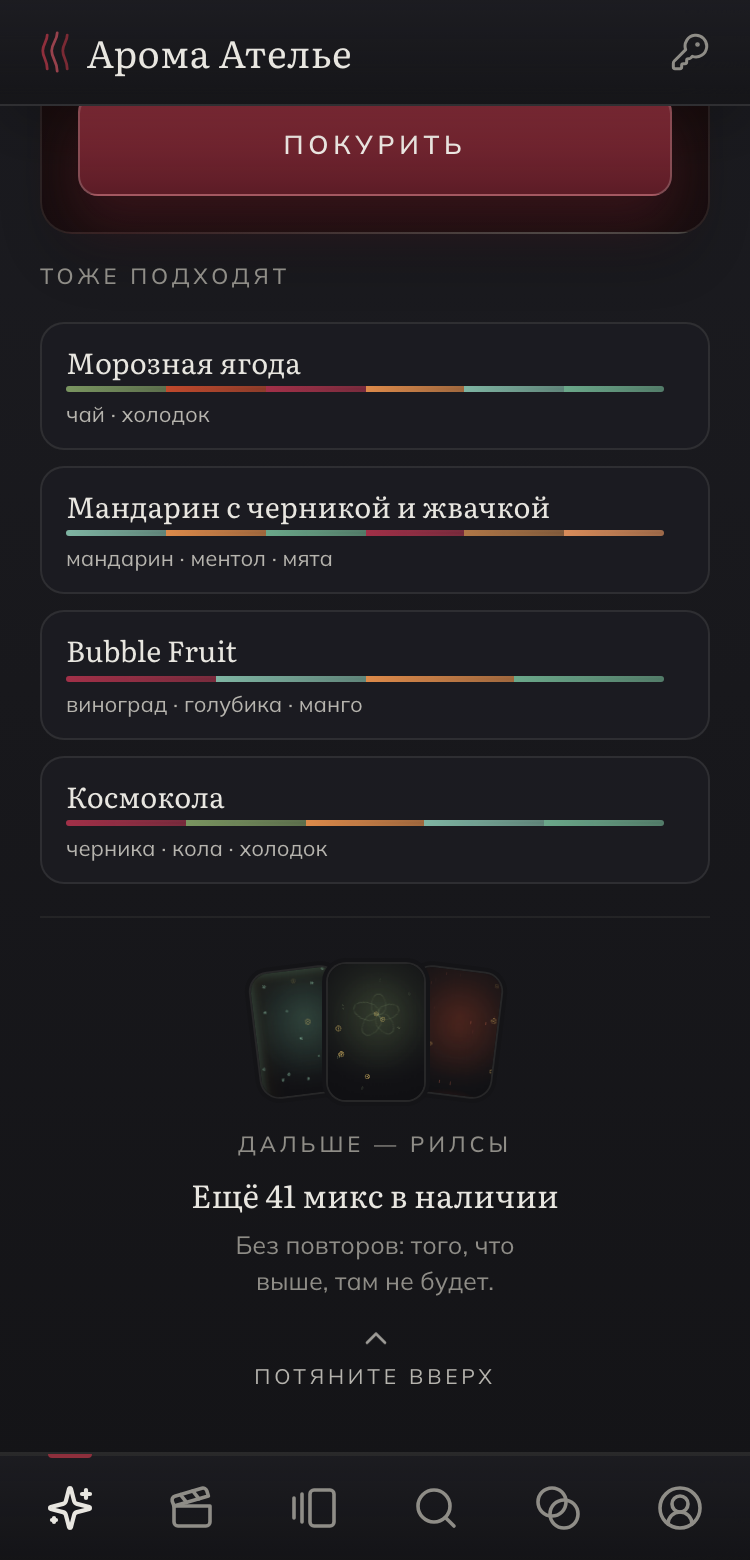
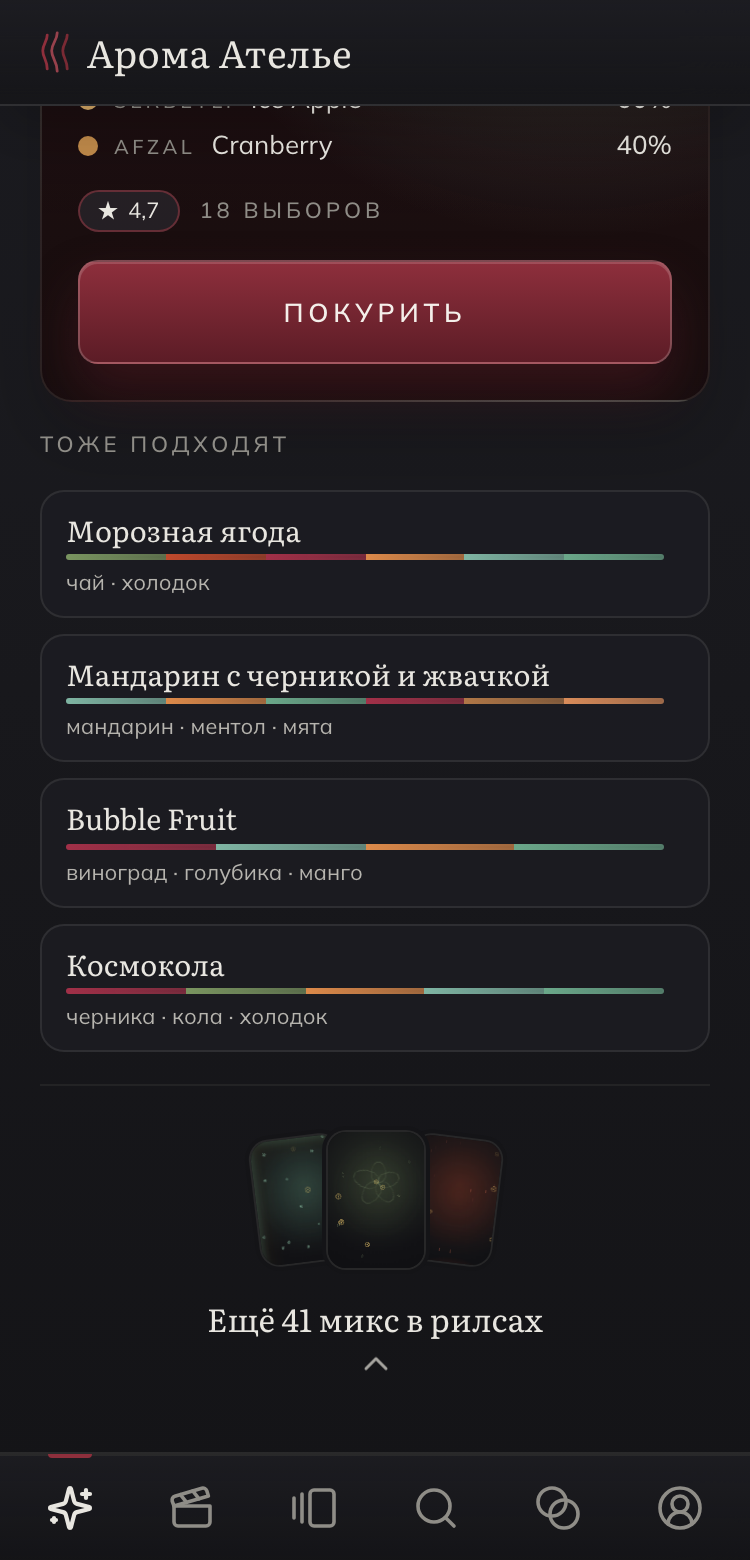
docs(design): короче тексты тизера и дотягивания (#349)
Замечание владельца: слишком много текста и уточнений. Тизер — мини-кадры,
«Ещё N миксов в рилсах» и стрелка; кольцо дотягивания без подписей;
подписи кадров доски — одной фразой. Шапка без «Сменить код» (#316).

diff --git a/design/design_handoff_reels_continuation/board.jsx b/design/design_handoff_reels_continuation/board.jsx
@@ -158,9 +158,6 @@ function Topbar() {
           <img className="brand-mark" src="../../.claude/skills/aroma-atelier-design/assets/logo-mark-oxblood.svg" alt="" aria-hidden />
           <span className="brand">Арома Ателье</span>
         </button>
-        <button type="button" className="topbar-icon-btn" aria-label="Сменить код" title="Сменить код">
-          <Icon name="KeyRound" size={20} />
-        </button>
       </div>
     </header>
   );
@@ -263,28 +260,17 @@ function MixerInvite() {
 
 // Последний блок Подбора: под ним край, дотягивание за который открывает ленту. Тап — то же самое.
 function ReelsTeaser({ feed, onOpen }) {
-  const next = feed.slice(0, 3);
   const count = feed.length;
+  const title = count ? 'Ещё ' + count + ' ' + pluralRu(count, ['микс', 'микса', 'миксов']) + ' в рилсах' : 'Других миксов нет';
   return (
-    <button type="button" className="rt" onClick={onOpen} aria-label={'Дальше — рилсы. ' + (count ? 'Ещё ' + count + ' ' + pluralRu(count, ['микс', 'микса', 'миксов']) : 'Других миксов нет')}>
-      {next.length ? (
+    <button type="button" className="rt" onClick={onOpen}>
+      {count ? (
         <span className="rt-stills" aria-hidden>
-          {next.map((mix) => <span key={mix.id} className="rt-still"><Scene mix={mix} styleB playing={false} /></span>)}
+          {feed.slice(0, 3).map((mix) => <span key={mix.id} className="rt-still"><Scene mix={mix} styleB playing={false} /></span>)}
         </span>
       ) : null}
-      <span className="aroma-caps">Дальше — рилсы</span>
-      {count ? (
-        <>
-          <span className="rt-title">{'Ещё ' + count + ' ' + pluralRu(count, ['микс', 'микса', 'миксов']) + ' в наличии'}</span>
-          <span className="rt-note">Без повторов: того, что выше, там не будет.</span>
-        </>
-      ) : (
-        <>
-          <span className="rt-title">Других миксов сегодня нет</span>
-          <span className="rt-note">Всё, что есть в наличии, — уже выше.</span>
-        </>
-      )}
-      <span className="rt-pull"><Icon name="ChevronUp" size={18} />Потяните вверх</span>
+      <span className="rt-title">{title}</span>
+      <span className="rt-pull"><Icon name="ChevronUp" size={20} /></span>
     </button>
   );
 }
@@ -398,19 +384,18 @@ function usePull({ atEdge, sign, onFire, initial = 0 }) {
   return { pull, dragging, handlers };
 }
 
-function PullCue({ pull, ready, readyText }) {
+function PullCue({ pull, dir }) {
   const r = 18;
   const len = 2 * Math.PI * r;
   return (
-    <span className={'pull-cue' + (ready ? ' pull-cue-ready' : '')} role="status">
+    <span className={'pull-cue' + (pull >= PULL_FIRE ? ' pull-cue-ready' : '')} aria-hidden>
       <span className="pull-ring">
-        <svg className="ring" viewBox="0 0 40 40" aria-hidden>
+        <svg className="ring" viewBox="0 0 40 40">
           <circle className="ring-track" cx="20" cy="20" r={r} />
           <circle className="ring-fill" cx="20" cy="20" r={r} strokeDasharray={len} strokeDashoffset={len * (1 - Math.min(1, pull / PULL_FIRE))} />
         </svg>
-        <Icon name={readyText === 'Отпустите — к подбору' ? 'ChevronDown' : 'ChevronUp'} size={18} />
+        <Icon name={dir === 'down' ? 'ChevronDown' : 'ChevronUp'} size={18} />
       </span>
-      {ready ? readyText : 'Потяните ещё'}
     </span>
   );
 }
@@ -446,7 +431,7 @@ function RecsScreen({ persona, at, pull: initialPull, variantB, onReels }) {
       {teaser ? (
         <div className="pull-reveal pull-reveal-bottom" style={{ height: pull }} aria-hidden={!pull}>
           {feed[0] ? <Scene mix={feed[0]} styleB playing={false} /> : null}
-          {pull ? <PullCue pull={pull} ready={pull >= PULL_FIRE} readyText="Отпустите — рилсы" /> : null}
+          {pull ? <PullCue pull={pull} dir="up" /> : null}
         </div>
       ) : null}
     </div>
@@ -551,7 +536,7 @@ function ReelsScreen({ persona, backPull, onBack }) {
     <div className={'pull-wrap' + (dragging ? ' dragging' : '')} {...(canBack ? handlers : {})}>
       {canBack ? (
         <div className="pull-reveal pull-reveal-top" style={{ height: pull }} aria-hidden={!pull}>
-          {pull ? <PullCue pull={pull} ready={pull >= PULL_FIRE} readyText="Отпустите — к подбору" /> : null}
+          {pull ? <PullCue pull={pull} dir="down" /> : null}
         </div>
       ) : null}
       <div className="reels" ref={ref} style={{ transform: pull ? 'translateY(' + pull + 'px)' : undefined }}>
@@ -627,20 +612,20 @@ function Frame({ name, note, children }) {
 }
 
 const SHOTS = [
-  { id: 'end-anon', group: 'end', name: 'Без входа · конец Подбора', note: 'Герой и четыре «Тоже подходят», ниже — «Намиксуй», последним — тизер. Под тизером край: потянуть дальше — рилсы. Тап по тизеру — тоже рилсы.', props: { at: 'end' } },
-  { id: 'end-li', group: 'end', name: 'Вошедший · конец «Для вас»', note: 'После «Снова» — сразу тизер: «Намиксуй» в «Для вас» нет и сейчас. В ленте не будет ни одного из шести показанных миксов.', props: { persona: 'li', at: 'end' } },
-  { id: 'end-anon-b', group: 'end', name: 'Вариант Б · без «Намиксуй»', note: 'Тизер вместо приглашения: одна концовка вместо двух. «Намиксуй» остаётся в панели и в конце ленты (#298).', props: { at: 'end', variantB: true } },
-  { id: 'pull-mid', group: 'pull', name: 'Дотягивание · тянем', note: 'Гость уже в самом низу и тянет дальше. Подбор приподнимается за пальцем вдвое медленнее, снизу проступает сцена первого рилса. Кольцо — сколько осталось до порога.', props: { at: 'end', pull: 84 } },
-  { id: 'pull-ready', group: 'pull', name: 'Дотягивание · порог', note: 'Порог — 120 px сверх края. Кольцо закрылось: «Отпустите — рилсы». Отпустить раньше — Подбор вернётся на место, ничего не откроется.', props: { at: 'end', pull: 150 } },
-  { id: 'cont-first', group: 'reels', name: 'Первый рилс · без входа', note: '«Mr. Pink» — шестой в выдаче рекомендаций: на Подбор не влез, поэтому первый в ленте. Надписи слота нет. Сверху — «К подбору», снизу — «Листайте вверх».', props: { view: 'reels' } },
-  { id: 'cont-first-li', group: 'reels', name: 'Первый рилс · вошедший', note: 'У вошедшего продолжение — каталог без шести миксов «Для вас». Ни надписей слотов, ни причин: эти миксы гость ещё не видел.', props: { persona: 'li', view: 'reels' } },
-  { id: 'back-pull', group: 'reels', name: 'Свайп вниз · назад', note: 'На первом рилсе свайп вниз сдвигает ленту, сверху — «Отпустите — к подбору». Отпустил — конец Подбора, тизер на экране. Кнопка «К подбору» делает то же.', props: { view: 'reels', backPull: 150 } },
-  { id: 'nav-recs', group: 'nav', name: 'Подбор сверху · новая панель', note: 'Полосы кружков над Подбором больше нет. Панель: Подбор · Рилсы · Витрина · Каталог · Миксер · Кабинет.', props: {} },
-  { id: 'nav-reels', group: 'nav', name: 'Рилсы из панели', note: 'Та же лента, тот же первый рилс, что и из тизера. «К подбору» и свайп вниз ведут в конец Подбора.', props: { view: 'reels' } },
-  { id: 'empty-recs', group: 'edge', name: 'Подбор пуст', note: 'Онбординг пропущен — подбора нет, тизера тоже. Края для дотягивания нет.', props: { persona: 'empty' } },
-  { id: 'empty-reels', group: 'edge', name: 'Подбор пуст · рилсы из панели', note: 'Лента — весь каталог в его порядке. «К подбору» нет: возвращаться не к чему, свайп вниз на первом рилсе ничего не делает.', props: { persona: 'empty', view: 'reels' } },
-  { id: 'small-end', group: 'edge', name: 'Продолжение пустое · тизер', note: 'В наличии пять миксов, и все уже на Подборе. Тизер честно говорит, что других нет; дотягивание открывает конец ленты.', props: { persona: 'small', at: 'end' } },
-  { id: 'small-reels', group: 'edge', name: 'Продолжение пустое · конец ленты', note: 'Лента начинается сразу с конца (#298): «Не нашли своё? Намиксуй». Свайп вниз — обратно к Подбору.', props: { persona: 'small', view: 'reels' } },
+  { id: 'end-anon', group: 'end', name: 'Без входа', note: '«Намиксуй», под ним тизер. Под тизером — край.', props: { at: 'end' } },
+  { id: 'end-li', group: 'end', name: 'Вошедший', note: 'После «Снова» — тизер.', props: { persona: 'li', at: 'end' } },
+  { id: 'end-anon-b', group: 'end', name: 'Вариант Б', note: 'Тизер вместо «Намиксуй».', props: { at: 'end', variantB: true } },
+  { id: 'pull-mid', group: 'pull', name: 'Тянем', note: 'Кольцо — ход до порога.', props: { at: 'end', pull: 84 } },
+  { id: 'pull-ready', group: 'pull', name: 'Порог', note: '120 px сверх края. Отпустил — рилсы.', props: { at: 'end', pull: 150 } },
+  { id: 'cont-first', group: 'reels', name: 'Первый рилс', note: 'Шестой из выдачи — на Подбор не влез.', props: { view: 'reels' } },
+  { id: 'cont-first-li', group: 'reels', name: 'Первый рилс · вошедший', note: 'Каталог без шести миксов «Для вас».', props: { persona: 'li', view: 'reels' } },
+  { id: 'back-pull', group: 'reels', name: 'Назад', note: 'Свайп вниз — конец Подбора.', props: { view: 'reels', backPull: 150 } },
+  { id: 'nav-recs', group: 'nav', name: 'Подбор', note: 'Без полосы кружков.', props: {} },
+  { id: 'nav-reels', group: 'nav', name: 'Рилсы из панели', note: 'Та же лента.', props: { view: 'reels' } },
+  { id: 'empty-recs', group: 'edge', name: 'Подбор пуст', note: 'Тизера нет.', props: { persona: 'empty' } },
+  { id: 'empty-reels', group: 'edge', name: 'Подбор пуст · рилсы', note: 'Весь каталог. Назад некуда.', props: { persona: 'empty', view: 'reels' } },
+  { id: 'small-end', group: 'edge', name: 'Продолжение пустое', note: 'Все миксы уже на Подборе.', props: { persona: 'small', at: 'end' } },
+  { id: 'small-reels', group: 'edge', name: 'Продолжение пустое · рилсы', note: 'Сразу конец ленты (#298).', props: { persona: 'small', view: 'reels' } },
 ];
 
 function Shot({ id }) {
@@ -664,7 +649,7 @@ function NavCompare() {
   return (
     <div className="nav-compare">
       {row('Было', NAV_BEFORE)}
-      {row('Стало', NAV_AFTER, 'Подписи — только в aria-label, как сейчас. Порядок в BottomNav.tsx меняется, значки и подписи — нет.')}
+      {row('Стало', NAV_AFTER)}
     </div>
   );
 }
@@ -678,17 +663,16 @@ function Board() {
       <header className="board-head">
         <p className="aroma-caps">#349 · мокап на согласование</p>
         <h1 className="board-title">Рилсы после Подбора</h1>
-        <p className="board-text">Рилсы — второй пункт панели. Лента продолжает Подбор: долистал до конца, потянул дальше — открылись рилсы, и ни один микс с Подбора в них не повторяется. Свайп вниз на первом рилсе возвращает в конец Подбора. Полоса кружков над Подбором уходит.</p>
-        <p className="board-text">Телефоны живые: Подбор прокручивается, колесо или перетаскивание мышью у нижнего края тянет за край, тап по тизеру открывает ленту. На первом рилсе колесо вверх или перетаскивание вниз возвращают назад. Миксы — витрина прода на 15 октября.</p>
+        <p className="board-text">Подбор продолжается рилсами без повторов. Рилсы — второй пункт панели.</p>
+        <p className="board-text">Телефоны живые: колесо или мышь у нижнего края — дотягивание, тап по тизеру — рилсы.</p>
       </header>
       <section className="board-section">
         <h2 className="board-h2">Конец Подбора</h2>
-        <p className="board-note"><b>Порядок:</b> тизер — всегда последний блок, потому что он объясняет край под собой. «Намиксуй» гостя без входа — над тизером (основной вариант). Вариант Б убирает «Намиксуй» с Подбора: приглашение и так ждёт в конце ленты. Выбор — за владельцем.</p>
+        <p className="board-note">Основной вариант или Б — выбор владельца.</p>
         <div className="board-row">{row('end')}</div>
       </section>
       <section className="board-section">
         <h2 className="board-h2">Дотягивание за край</h2>
-        <p className="board-note">Долистать до низа мало: переход срабатывает, только если потянуть дальше края на 120 px. Случайный длинный свайп по Подбору ленту не откроет — он упрётся в край, и Подбор вернётся на место.</p>
         <div className="board-row">{row('pull')}</div>
       </section>
       <section className="board-section">

diff --git a/design/design_handoff_reels_continuation/mockups.html b/design/design_handoff_reels_continuation/mockups.html
@@ -398,8 +398,7 @@ body{font-family:var(--font-body);color:var(--text-primary);overflow-x:hidden;ba
 .rt-still:nth-child(3){rotate:7deg;translate:0 3px}
 .rt-still .scene{inset:auto;left:0;top:0;width:375px;height:560px;transform:scale(.134);transform-origin:0 0}
 .rt-title{margin:0;font-family:var(--font-display);font-size:var(--fs-guest-h3);line-height:1.25;color:var(--text-0)}
-.rt-note{margin:0;max-width:30ch;text-wrap:balance;font-size:12.5px;line-height:1.45;color:var(--text-2)}
-.rt-pull{display:inline-flex;flex-direction:column;align-items:center;margin-top:8px;color:var(--text-1);font-size:10.5px;letter-spacing:.18em;text-transform:uppercase}
+.rt-pull{display:inline-flex;color:var(--text-1)}
 .rt-pull svg{animation:reel-hint 2s var(--ease-out,ease) infinite}
 
 /* ── #349 · Дотягивание за край: лента приподнимается, снизу проступает первый рилс ── */
@@ -412,7 +411,7 @@ body{font-family:var(--font-body);color:var(--text-primary);overflow-x:hidden;ba
 .pull-reveal-top{top:0;border-bottom:1px solid var(--line);background:var(--guest-shell-bg)}
 .pull-reveal .scene{inset:0 0 auto 0;height:560px}
 .pull-reveal-bottom::after{content:"";position:absolute;inset:0;background:linear-gradient(180deg,rgba(14,14,17,.7) 0%,transparent 60%);pointer-events:none}
-.pull-cue{position:relative;z-index:1;display:grid;justify-items:center;gap:6px;color:var(--text-1);font-size:10.5px;letter-spacing:.18em;text-transform:uppercase}
+.pull-cue{position:relative;z-index:1;color:var(--text-1)}
 .pull-cue-ready{color:var(--text-0)}
 .pull-ring{width:40px;height:40px;display:grid;place-items:center;position:relative}
 .pull-ring svg.ring{position:absolute;inset:0;rotate:-90deg}

diff --git a/design/design_handoff_reels_continuation/README.md b/design/design_handoff_reels_continuation/README.md
@@ -32,7 +32,7 @@ python3 -m http.server 8765 --bind 127.0.0.1
 ## Файлы
 
 - `mockups.html` — оболочка из `../design_handoff_reels_v2/`, классы варианта C (`.st-*`, `.timeline`) убраны. В конце блока `<style>` — копии классов приложения: «Для вас», `MixerInvite`, `FeedEnd`. Новые классы: `.rt-*` (тизер), `.pull-*` (дотягивание), `.reel-back`, `.nav-compare`.
-- `board.jsx` — сцены и правило выбора сцены скопированы из `../design_handoff_reels_v2/board.jsx` без изменений. Новое — данные продолжения, `ReelsTeaser`, `usePull`, `PullCue`, `RecsScreen`, `ReelsScreen`, доска. Подбор гостя без входа — `RecommendationsScreen` из гостевого UI-кита.
+- `board.jsx` — сцены и правило выбора сцены скопированы из `../design_handoff_reels_v2/board.jsx` без изменений. Новое — данные продолжения, `ReelsTeaser`, `usePull`, `PullCue`, `RecsScreen`, `ReelsScreen`, доска. Подбор гостя без входа — `RecommendationsScreen` из гостевого UI-кита. В шапке нет «Сменить код» (#316).
 
 ## Что реализовать
 
@@ -54,22 +54,20 @@ python3 -m http.server 8765 --bind 127.0.0.1
    - у гостя без входа и в cold «Намиксуй» (`MixerInvite`) стоит над тизером (кадр `end-anon`);
    - в «Для вас» приглашения нет и сейчас, поэтому после «Снова» сразу идёт тизер (`end-li`).
 2. **Вариант Б** (`end-anon-b`): тизер вместо «Намиксуй». Остаётся одна концовка, а приглашение и так ждёт в конце ленты (#298) и в панели. Если владелец выберет Б, `MixerInvite` уходит из Подбора только там, где есть тизер. В пустом Подборе после поиска («Ничего не найдено») приглашение остаётся.
-3. **Состав тизера** (`.rt`, вся область — одна кнопка: тап открывает ленту):
-   - три мини-кадра сцен следующих рилсов, веером. Сцены статичны;
-   - `ДАЛЬШЕ — РИЛСЫ` — `.aroma-caps`;
-   - «Ещё N миксов в наличии» — Literata, `--fs-guest-h3`, число склоняется;
-   - «Без повторов: того, что выше, там не будет.» — 12,5 px, `--text-2`;
-   - `ПОТЯНИТЕ ВВЕРХ` со стрелкой, анимация как у «Листайте вверх».
-4. **Продолжение пустое** (`small-end`): каталог не больше Подбора. Мини-кадров нет, текст — «Других миксов сегодня нет» и «Всё, что есть в наличии, — уже выше.». Тизер и дотягивание открывают ленту сразу на конце (`small-reels`, #298).
+3. **Тизер** (`.rt`, одна кнопка: тап открывает ленту):
+   - три мини-кадра сцен следующих рилсов, веером, статичные;
+   - «Ещё N миксов в рилсах» — Literata, `--fs-guest-h3`, число склоняется;
+   - стрелка вверх, анимация как у «Листайте вверх».
+
+   Больше текста в тизере нет.
+4. **Продолжение пустое** (`small-end`): каталог не больше Подбора. Без мини-кадров, текст — «Других миксов нет». Тизер и дотягивание открывают сразу конец ленты (`small-reels`, #298).
 5. **Подбор пуст** (`empty-recs`): тизера нет, дотягивания тоже.
 
 ### 3. Дотягивание за край
 
 1. Срабатывает только сверх края. Долистать до низа мало, нужно потянуть дальше: порог — **120 px** хода ленты сверх края.
 2. Лента идёт за пальцем вдвое медленнее (сопротивление 0,5). Снизу проступает статичная сцена первого рилса продолжения.
-3. Над сценой — кольцо прогресса (`--accent`) со стрелкой вверх и подпись:
-   - до порога — `ПОТЯНИТЕ ЕЩЁ` (`pull-mid`);
-   - на пороге кольцо заливается акцентом, подпись — `ОТПУСТИТЕ — РИЛСЫ` (`pull-ready`).
+3. Над сценой — кольцо прогресса со стрелкой вверх, без подписи (`pull-mid`). На пороге кольцо заливается `--accent` (`pull-ready`).
 4. Отпустил после порога — открывается лента на первом рилсе. Отпустил раньше — Подбор возвращается на место (240 мс), ничего не открывается.
 5. Случайный длинный свайп упирается в край и не уводит в рилсы: ход сверх края считается только от жеста, начатого, когда Подбор уже внизу. Инерция прокрутки до края порог не набирает.
 6. При `prefers-reduced-motion` — без возвратной анимации.
@@ -80,7 +78,7 @@ python3 -m http.server 8765 --bind 127.0.0.1
 2. **На первом рилсе:**
    - сверху пилюля `К ПОДБОРУ` со стрелкой вниз; тап по ней возвращает в конец Подбора;
    - снизу подсказка «Листайте вверх», как сейчас.
-3. **Свайп вниз на первом рилсе** (`back-pull`) — зеркальное дотягивание. Лента сдвигается вниз, сверху кольцо со стрелкой вниз и `ОТПУСТИТЕ — К ПОДБОРУ`. Порог тот же — 120 px.
+3. **Свайп вниз на первом рилсе** (`back-pull`) — зеркальное дотягивание. Лента сдвигается вниз, сверху то же кольцо со стрелкой вниз. Порог тот же — 120 px.
 4. **Возврат — в конец Подбора, к тизеру:** гость видит то же место, откуда ушёл. Это верно и когда лента открыта из панели: она всё равно продолжение Подбора.
 5. **Подбор пуст** (`empty-reels`): «К подбору» нет, а свайп вниз на первом рилсе ничего не делает — возвращаться не к чему. Лента — весь каталог в его порядке.
 6. **Продолжение пустое** (`small-reels`): первый и единственный слайд — конец ленты (#298) с пилюлей «К подбору».
